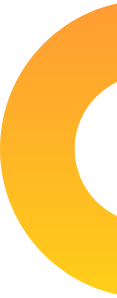
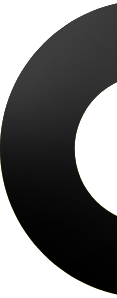
some design modfy

diff --git a/style.css b/style.css
@@ -18,19 +18,19 @@ h2{
     padding-right: 5%;
 }
 .half-width img{
-    width: 75%;
+    width: 100%;
 }
 .name{
-    color: orange;
+    color: #6d6d6d;
 }
 .orange-color{
-    color: orange;
+    color: #4e4e4e;
 }
 .link-buttom{
     text-decoration: none;
     color: white;
     width: 700;
-    background-image: linear-gradient(orange, tomato);
+    background-image: linear-gradient(#686868, #000000);
     padding: 10px 40px;
     border-radius: 5%;
 }
@@ -42,6 +42,9 @@ h2{
     background-image: url(images/dream-bg.png);
     background-repeat: no-repeat;
     background-position: right;
+}
+#p-padding{
+    padding-right: 40px;
 }
 .experience-items{
     width: 40%;
@@ -58,12 +61,12 @@ h2{
 }
 #web-dev-ex{
     border-left: 7px solid;
-    border-image: linear-gradient(blue, cyan);
+    border-image: linear-gradient(#bbbbbb, #000000);
     border-image-slice: 1;
 }
 #web-dev{
     border-left: 7px solid;
-    border-image: linear-gradient(tomato, orange);
+    border-image: linear-gradient(#000000, #afafaf);
     border-image-slice: 1;
 }
 #ex{

diff --git a/index.html b/index.html
@@ -36,7 +36,8 @@
         <div class="half-width">
             <h1>Dream Big</h1>
             <h3>Become a web developer</h3>
-            <p>I already learned the basic HTML and CSS. I can build any simple website. I can even teach my grandma how
+            <p id="p-padding">I already learned the basic HTML and CSS. I can build any simple website. I can even teach
+                my grandma how
                 to make simple website. My goal is to build 3 websites and learn advanced topics.</p>
             <a class="link-buttom" target="_blank"
                 href="https://drive.google.com/file/d/1X_9hSEf39jW2jS4JlBlmCzR2bmR6XCPX/view?usp=sharing">Download
@@ -65,7 +66,7 @@
     </section>
 </body>
 <footer>
-    <p>© Peter Parker 2021, a Programming Hero initiative.</p>
+    <p>© Najmul Rusu | 2022.</p>
 </footer>
 
 </html>
